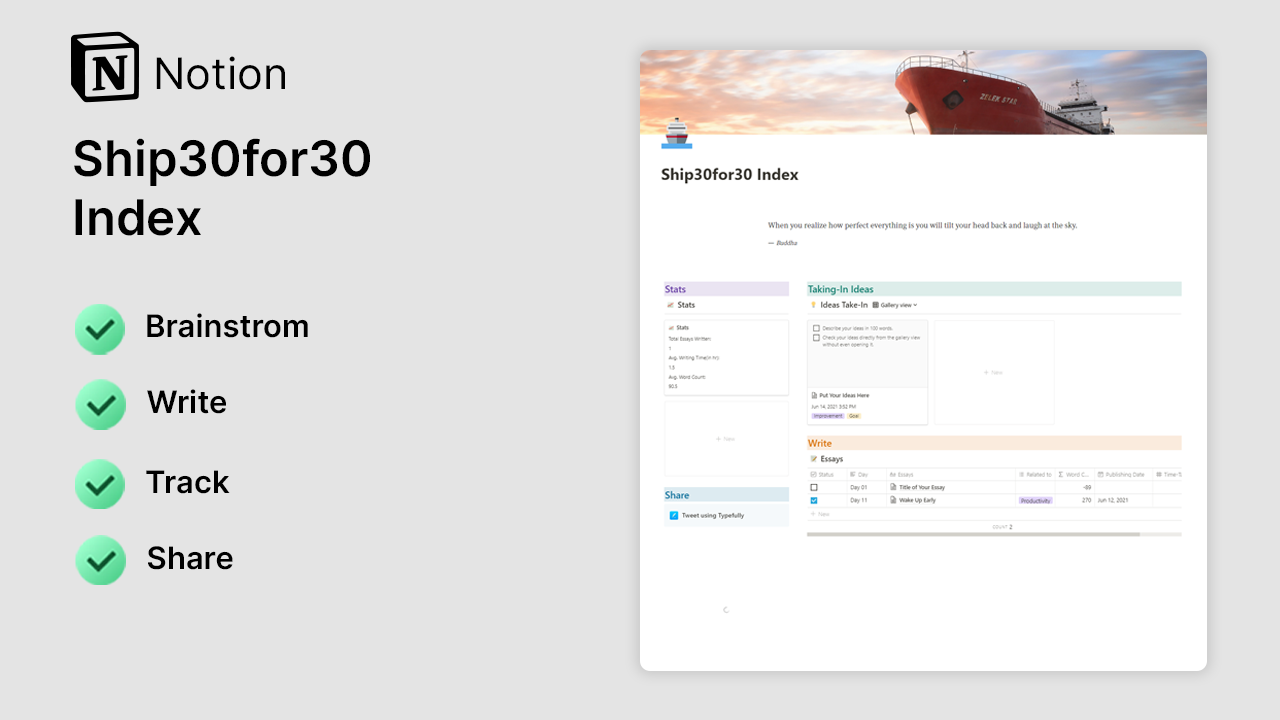
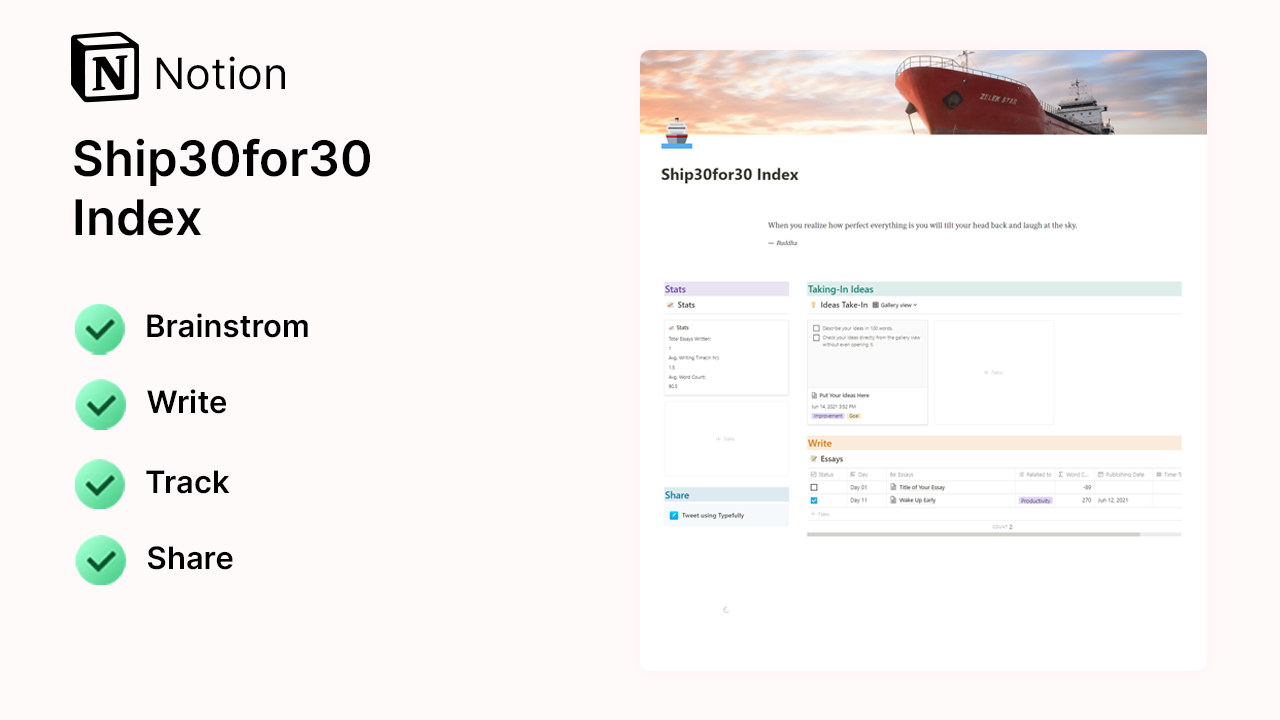
changed the color of the background of the image and removed the follow journey section

diff --git a/index.html b/index.html
@@ -157,7 +157,7 @@
 
       </div>
     </section>
-    <!-- Follow Journey -->
+    <!-- Follow Journey
     <section id="twitter-section">
       <div class="heading">Follow Journey</div>
       <div class="description" style="text-align: left; padding-top: 3px;">In process of making this website I recored the progress of each day and here it is in the form of tweets.<br><br><a href="https://twitter.com/atulacleaver?ref_src=twsrc%5Etfw" class="twitter-follow-button" data-size="large" data-show-screen-name="false" data-lang="en" data-show-count="false"></a><script async src="https://platform.twitter.com/widgets.js" charset="utf-8"></script></div>
@@ -165,7 +165,7 @@
       <div class="tweets">
         <iframe class="twitter-frameboard" src="tweets/days.html" width="100%" height="725" frameborder="0" allow="encrypted-media"></iframe>
       </div>
-    </section>
+    </section> -->
     <section>
       <div class="heading">Your Views</div>
       <div class="description" style="text-align: left; padding-top: 3px;">Talk about your experience using this website: what can be <u>improved</u>, what you find <u>innovative</u>, any questions. I would love to answer.</div>
